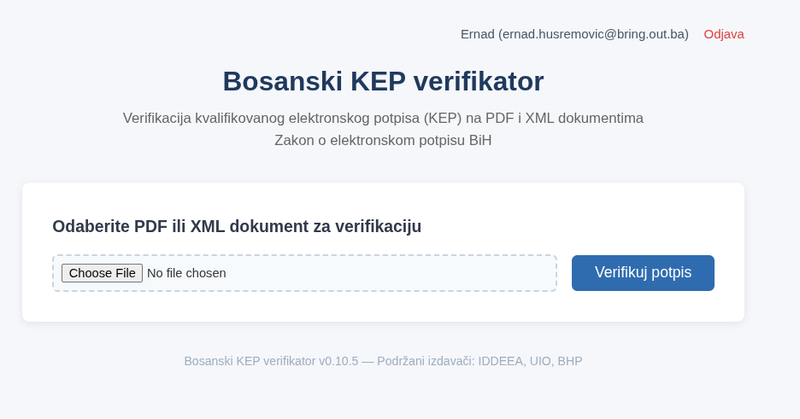
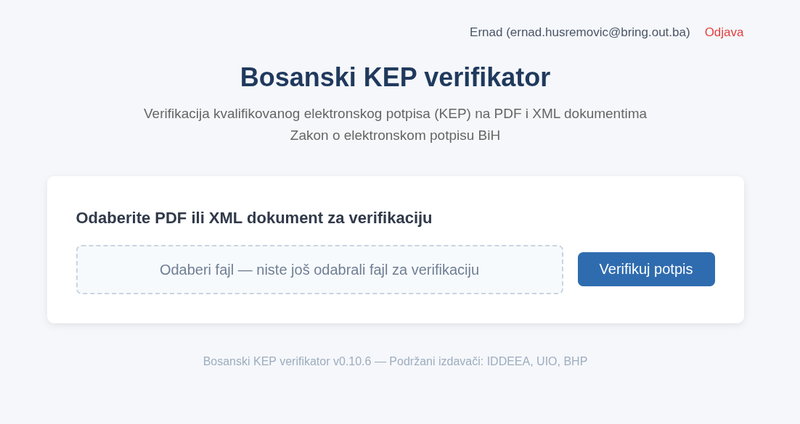
update: step 4 with before/after file selection screenshots, new hero
🤖 assisted by claude

diff --git a/src/content/blog/kep-verifikator-2026.md b/src/content/blog/kep-verifikator-2026.md
@@ -55,9 +55,15 @@ Nakon odobrenja, korisnik dobija email sa linkom za pristup (važi 30 dana). Kli
 
 ### 4. Pristup servisu
 
-Kliknite na "Odaberi fajl", odaberite PDF ili XML fajl, nakon toga pokrenite verifikaciju sa "Verifikuj potpis".
+Kliknite na područje "Odaberi fajl — niste još odabrali fajl za verifikaciju":
 
-![Pristup servisu](/kep-pristup-servisu.png)
+![Odaberi fajl](/kep-pristup-servisu.png)
+
+Nakon odabira fajla, naziv fajla se prikazuje u polju:
+
+![Fajl odabran](/kep-fajl-odabran.png)
+
+Kliknite dugme "Verifikuj potpis" za pokretanje verifikacije.
 
 ### 5. Rezultati verifikacije
 
